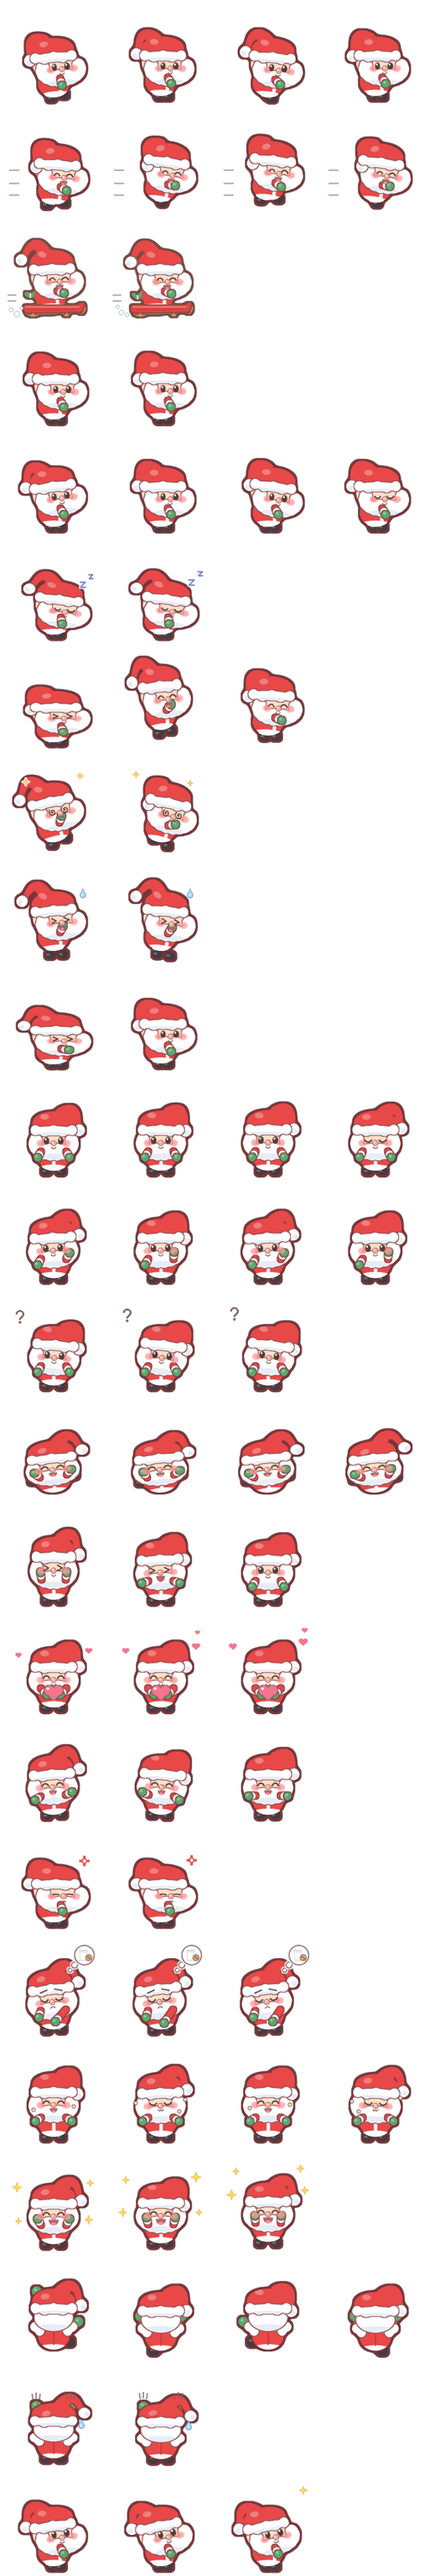
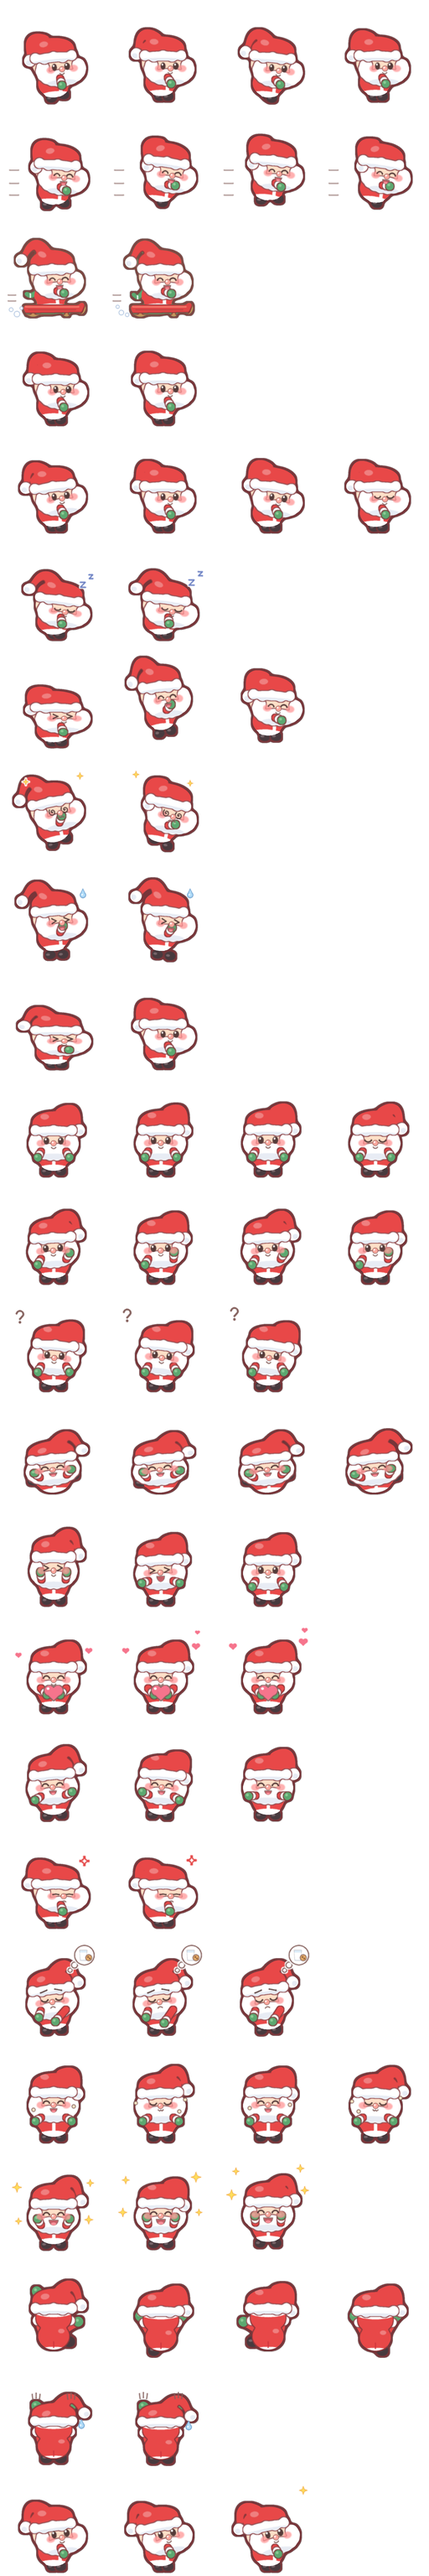
fix(art): Santa from behind looks like his back
Claude-Session: https://claude.ai/code/session_01QTKFeeLBUNBZhj6R6jJCZF

diff --git a/tools/test_draw_christmas.py b/tools/test_draw_christmas.py
@@ -129,21 +129,75 @@ def near(col, tol=24):
     return lambda r, g, b, a: (a > 200) & (np.abs(r - col[0]) + np.abs(g - col[1]) + np.abs(b - col[2]) < tol)
 
 
+def patches(im, col, tol):
+    """그 색의 2×2 덩어리 수 — 빨강·흰색 경계의 안티에일리어싱 낱개 픽셀은 세지 않고, 그려진 코·볼·눈만 잡는다."""
+    a = px(im)
+    h = (a[..., 3] > 200) & (np.abs(a[..., :3] - np.array(col)).sum(axis=2) < tol)
+    return int((h[:-1, :-1] & h[1:, :-1] & h[:-1, 1:] & h[1:, 1:]).sum())
+
+
+def back_frames(out, st):
+    return [("climb", c, frame(out, "santa", "climb", c, st)) for c in range(4)] + [("slide", c, frame(out, "santa", "slide", c, st)) for c in range(2)]
+
+
+def torso_box(st, frame_img):
+    """뒷모습 몸통 칸 (모자 테 바로 아래 ~ 몸 아래끝, 가운데 몸 폭): 프레임 좌표. 그림의 _layout을 현재 단계 배율로 옮기고 불투명 아래끝에 맞춘다."""
+    sp = draw_christmas.SANTA
+    with draw_pets.stage(st, sp.stage_tweak.get(st)):
+        s = sp.scale * draw_pets._ST["fit"]
+        ss = draw_christmas._sa()
+        cy_b, hy = draw_christmas._layout(ss, draw_christmas.SA_FLOOR - 1)
+        to_y = lambda y: 126 + (y - 126) * s
+        half = ss["brx"] * s * 0.8
+        top, body_bottom = to_y(hy + ss["hr"] * 0.08), to_y(cy_b + ss["bry"] * 0.72)
+    return round(64 - half), round(top), round(64 + half), round(body_bottom)
+
+
 def test_santa_climbs_with_his_back_to_us(out):
-    """뒷모습: 빨간 등·모자 + 방울, 얼굴 없음 (눈·코·볼 없음), 벨트는 어린이부터, 자루는 어른만, 버클 없음."""
+    """뒷모습은 뒷모습으로 읽혀야 한다: 어느 단계에도 살색·얼굴 없음, 벨트는 어린이부터 등 쪽 띠로, 버클 없음, 자루는 어른만."""
     for st in STAGES:
-        for anim, n in (("climb", 4), ("slide", 2)):
-            for c in range(n):
-                im = frame(out, "santa", anim, c, st)
-                assert count(im, near(draw_christmas.SUIT)) >= 400, (st, anim, c)
-                assert count(im, near(draw_christmas.FUR, 10)) >= 200, (st, anim, c)
-                assert count(im, near((250, 166, 156), 16)) < 10, (st, anim, c)  # 앞모습 코가 없다 (코면 수십 px)
-                assert count(im.crop((0, 0, FRAME, 66)), near(draw_pets.EYE, 12)) < 30, (st, anim, c)  # 머리 쪽에 눈이 없다 (장화·허리띠는 아래, 눈이면 하나에 수십 px)
-                assert count(im, near(draw_christmas.BUCKLE, 30)) < 30, (st, anim, c)  # 버클 없음 (어른 자루의 선물 리본이 몇 px)
-                sack = count(im, near(draw_christmas.SACK, 16))
-                assert (sack >= 200) == (st == "adult"), (st, anim, c, sack)
-                belt = count(im, near(draw_christmas.BELT, 16))
-                assert (belt >= 60) == (st in ("child", "teenager", "adult")), (st, anim, c, belt)
+        for anim, c, im in back_frames(out, st):
+            assert count(im, near(draw_christmas.SUIT)) >= 400, (st, anim, c)
+            assert count(im, near(draw_christmas.SKIN, 14)) == 0, (st, anim, c)  # 살색이 어디에도 없다
+            assert patches(im, draw_christmas.CHEEK_RED, 14) == 0, (st, anim, c)  # 볼터치가 없다
+            assert patches(im, (250, 166, 156), 16) == 0, (st, anim, c)  # 코가 없다
+            assert patches(im.crop((0, 0, FRAME, 66)), draw_pets.EYE, 12) == 0, (st, anim, c)  # 눈이 없다
+            gold = im.crop((0, 95, FRAME, FRAME)) if st == "adult" else im  # 어른의 선물 상자 리본은 위쪽, 버클 자리는 아래쪽
+            assert count(gold, near(draw_christmas.BUCKLE, 30)) == 0, (st, anim, c)
+            sack = count(im, near(draw_christmas.SACK, 16))
+            assert (sack >= 200) == (st == "adult"), (st, anim, c, sack)
+            belt = count(im, near(draw_christmas.BELT, 16))
+            assert (belt >= 60) == (st in ("child", "teenager", "adult")), (st, anim, c, belt)
+
+
+def test_santa_back_torso_is_red_not_a_big_white_oval(out):
+    """모자 아래 몸통은 빨간 등판 — 수염·머리칼이 차지하는 흰 부분은 없다 (얼굴 없는 앞모습처럼 보이던 큰 흰 타원 금지)."""
+    for st in STAGES:
+        for anim, c, im in back_frames(out, st):
+            box = im.crop(torso_box(st, im))
+            white = count(box, near(draw_christmas.FUR, 16)) + count(box, near(draw_christmas.FUR_SHADE, 16))
+            red = count(box, near(draw_christmas.SUIT))
+            area = box.width * box.height
+            assert white <= 0.03 * area, (st, anim, c, white, area)
+            if st != "adult":  # 어른은 자루가 등을 덮는다
+                assert red >= 0.6 * area, (st, anim, c, red, area)
+
+
+def test_santa_back_hair_is_a_thin_line_and_beard_tips_barely_show(out):
+    """모자 테 아래 머리 자리: 가운데 세로줄에서 흰색은 얇은 한 줄(몇 px)뿐, 그 아래는 곧장 빨강."""
+    for st in STAGES:
+        im = frame(out, "santa", "climb", 1, st)
+        sp = draw_christmas.SANTA
+        with draw_pets.stage(st, sp.stage_tweak.get(st)):
+            s = sp.scale * draw_pets._ST["fit"]
+            ss = draw_christmas._sa()
+            _, hy = draw_christmas._layout(ss, draw_christmas.SA_FLOOR - 1)
+            y0 = round(126 + (hy - ss["hr"] * 0.02 - 126) * s)
+            hr = ss["hr"] * s
+        below = im.crop((58, y0, 70, y0 + round(hr * 0.5)))
+        assert count(below, near(draw_christmas.FUR, 16)) <= 2 * below.width, (st, count(below, near(draw_christmas.FUR, 16)))
+        if st != "adult":  # 어른은 자루 위 선물 상자가 이 자리까지 올라온다
+            assert count(below, near(draw_christmas.SUIT)) >= 0.5 * below.width * below.height, st
 
 
 def test_santa_mitts_and_boots_take_turns_on_the_climb(out):

diff --git a/tools/draw_christmas.py b/tools/draw_christmas.py
@@ -12,7 +12,7 @@
 산타: 큰 머리 꼬마 산타 — 빨간 옷·모자(흰 방울), 복슬 흰 수염, 발그레 볼, 동글 배, 검은 허리띠 + 금 버클, 작은 장화.
       단계: 아기 = 모자 + 작은 수염 뭉치 (몸은 동글 빨간 콩) → 유아 장갑 → 어린이 허리띠 → 청소년 콧수염 + 버클 → 어른 큰 배 + 선물 자루.
       roll(구르기) 대신 썰매를 타고 미끄러진다 (옆모습, 방울·목도리 펄럭, 썰매 날 뒤로 눈가루) — pet.json roll에 spin이 없어 앱이 돌리지 않는다.
-      고양이처럼 벽을 탄다: 뒷모습 climb·slide (빨간 등·허리띠, 모자 + 방울, 수염 끝만 살짝, 어른은 등에 자루, 장화는 몸 뒤에서 번갈아 빼꼼).
+      고양이처럼 벽을 탄다: 뒷모습 climb·slide (살색 없이 빨간 등판·허리띠, 모자 + 방울, 그 아래 흰 머리칼 한 줄, 볼 옆 수염 끝만 살짝, 어른은 등에 자루, 장화는 몸 뒤에서 번갈아 빼꼼).
 eat에는 밥그릇이 없다 (앱의 소품 창이 그릇을 띄운다).
 """
 
@@ -664,28 +664,25 @@ def santa_back(reach, feet, *, sq=(1.0, 1.0), dy=0.0, pom=0.0, scratch=None, swe
             tx = cx + s_ * hr * (1.3 - 0.5 * r)
             ty = hy + hr * (0.42 - 0.95 * r if r <= 0.62 else -0.17 - 2.7 * (r - 0.62))  # 머리 옆 낮게 → 모자 테 아래 → 모자 위로 쭉
             parts.append(dp.Part([L([(cx + s_ * hr * 0.62, hy + hr * 0.5), (tx, ty)], 9.5)], SUIT, outline=True, grow=0))
-            parts.append(dp.Part([C(tx, ty, 6.6)], MITT if lvl else SKIN, [([C(tx - 1.6, ty - 1.8, 1.8)], MITT_LIGHT if lvl else WHITE)], outline=True, grow=0))
+            # 아기는 맨손이지만 뒤에서는 살색 대신 흰 털 소맷부리만 보인다
+            parts.append(dp.Part([C(tx, ty, 6.6)], MITT if lvl else FUR, [([C(tx - 1.6, ty - 1.8, 1.8)], MITT_LIGHT if lvl else FUR_SHADE)], outline=True, grow=0))
             if scratch is not None:
                 for j, d in enumerate((-4, 0, 4)):
                     y0 = ty - 9 - (j % 2) * 1.5 - scratch * 2
                     ops.append(([L([(tx + d * 1.1, y0), (tx + d * 1.3, y0 - 7)], 1.5)], LINE, 1.0, 0, 0))
-        # 등: 빨간 옷 + 아래 흰 털 단 + 허리띠 (버클은 앞에 있어 안 보인다), 등솔기
-        marks = [([E(cx - brx * 1.3, cy_b + bry * 0.6, cx + brx * 1.3, cy_b + bry * 1.7)], FUR),
-                 ([E(cx - brx * 1.3, cy_b + bry * 1.05, cx + brx * 1.3, cy_b + bry * 1.7)], FUR_SHADE),
-                 ([E(cx + brx * 0.3, cy_b - bry * 0.7, cx + brx * 0.7, cy_b - bry * 0.35)], mix(SUIT, WHITE, 0.3))]
-        if lvl >= 1:
-            marks.append(([L([(cx, cy_b - bry), (cx, cy_b + bry * 0.62)], 1.6)], SUIT_SHADE))
+        # 수염 끝: 좌우 볼 옆으로 조금만 — 빨간 등판보다 먼저 그려 가장자리만 삐져나온다
+        k = st["beard"]
+        parts.append(dp.Part([C(cx + s_ * hr * 0.8, hy + 0.14 * hr, hr * (0.14 + 0.08 * k)) for s_ in (-1, 1)], FUR, outline=True, grow=0))
+        # 등판: 머리 자리부터 엉덩이까지 한 덩어리 빨간 옷. 맨 위 모자 테 바로 아래에 흰 머리칼 한 줄, 맨 아래 얇은 털 단, 허리띠 (버클은 앞에 있어 안 보인다), 자락 트임
+        nape_top, nape_bot = hy - hr * 0.6, hy + hr * 0.62
+        marks = [([E(cx - hr, hy - hr * 0.62, cx + hr, hy - hr * 0.02)], FUR),
+                 ([E(cx - brx * 1.3, cy_b + bry * 0.8, cx + brx * 1.3, cy_b + bry * 1.7)], FUR),
+                 ([E(cx + brx * 0.3, cy_b - bry * 0.55, cx + brx * 0.7, cy_b - bry * 0.22)], mix(SUIT, WHITE, 0.3))]
+        marks.append(([L([(cx, cy_b + bry * 0.42), (cx, cy_b + bry * 0.84)], 1.5)], SUIT_SHADE))  # 코트 자락 트임 (긴 줄이면 책처럼 보인다)
         if st["belt"]:
             marks.append(([T((cx - brx * 1.1, cy_b + bry * 0.02), (cx + brx * 1.1, cy_b + bry * 0.02),
                              (cx + brx * 1.1, cy_b + bry * 0.36), (cx - brx * 1.1, cy_b + bry * 0.36))], BELT))
-        parts.append(dp.Part([E(cx - brx, cy_b - bry, cx + brx, cy_b + bry)], SUIT, marks, outline=True, grow=0))
-        # 뒤통수: 볼 옆으로 수염 끝이 살짝, 그 위에 흰 머리칼 + 모자
-        k = st["beard"]
-        tips = [C(cx + s_ * hr * 0.9, hy + 0.42 * hr, hr * (0.14 + 0.1 * k)) for s_ in (-1, 1)]
-        tips += [C(cx + s_ * hr * 0.66, hy + 0.56 * hr + 2 * k, hr * (0.14 + 0.1 * k)) for s_ in (-1, 1)]
-        parts.append(dp.Part(tips, FUR, outline=True, grow=0))
-        nape = [E(cx - hr * 0.9, hy - hr * 0.6, cx + hr * 0.9, hy + hr * 0.6)]
-        parts.append(dp.Part(nape, FUR if lvl >= 1 else SKIN, [([E(cx - hr, hy + hr * 0.3, cx + hr, hy + hr * 0.8)], FUR_SHADE if lvl >= 1 else mix(SKIN, CHEEK_RED, 0.2))], outline=True, grow=0))
+        parts.append(dp.Part([E(cx - brx, cy_b - bry, cx + brx, cy_b + bry), E(cx - hr * 0.82, nape_top, cx + hr * 0.82, nape_bot)], SUIT, marks, outline=True, grow=0))
         parts += _hat_parts(cx, hy, hr, False, pom, lvl)
         if st["sack"]:  # 어른: 등에 멘 선물 자루 — 등 한가운데, 입구로 선물 상자가 빼꼼
             sx0, sy0, sx1, sy1 = cx - 18, cy_b - bry * 0.82, cx + 18, cy_b + bry * 0.98

diff --git a/tools/test_draw_snowman.py b/tools/test_draw_snowman.py
@@ -92,11 +92,11 @@ def test_accessories_grow_with_age(out):
     holly = [count(frame(out, "sit_front", 0, st), draw_snowman.HOLLY) for st in STAGES]
     buttons = [draw_snowman.SN_STAGE[lvl]["buttons"] for lvl in range(len(STAGES))]
     assert scarf[0] == 0 and all(s >= 40 for s in scarf[1:]), scarf
-    assert pail[0] == pail[1] == 0 and all(p >= 40 for p in pail[2:]), pail
-    assert holly[3] == 0 and holly[4] >= 4, holly
+    assert pail[0] == pail[1] == 0 and all(p >= 45 for p in pail[2:]), pail
+    assert holly[3] == 0 and holly[4] >= 5, holly
     assert buttons == [0, 1, 2, 3, 3]  # 단추가 늘어난다
     assert count(frame(out, "sit_front", 0, "baby").crop((30, 96, 98, FRAME)), draw_snowman.COAL, 16) == 0
-    assert count(frame(out, "sit_front", 0, "teenager").crop((30, 72, 98, FRAME)), draw_snowman.COAL, 16) >= 12
+    assert count(frame(out, "sit_front", 0, "teenager").crop((30, 72, 98, FRAME)), draw_snowman.COAL, 16) >= 15
 
 
 def test_readable_on_white(out):
